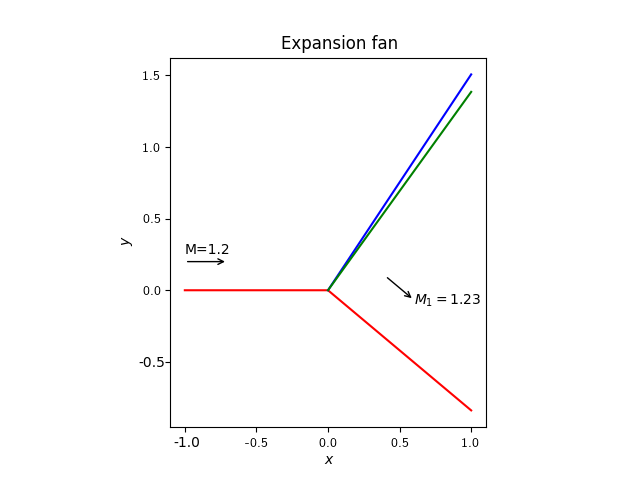
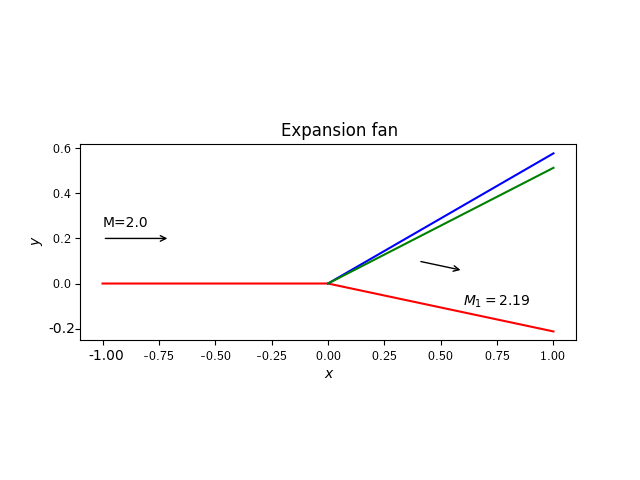
Correcting expansion

diff --git a/plot_expansion.py b/plot_expansion.py
@@ -1,8 +1,11 @@
 from numpy import arctan, tan, array, linspace, sqrt, zeros, degrees
 from matplotlib.pyplot import plot, xlabel, ylabel, title, show, rc, gca, savefig, subplots, close, arrow, annotate, table, grid
 
-def prandtl_meyer(M, gamma):
+def prandtl_meyer_deg(M, gamma):
     return degrees(sqrt((gamma+1)/(gamma-1))*arctan(sqrt((gamma-1)/(gamma+1))*(M**2-1)) - arctan(M**2-1))
+
+def prandtl_meyer(M, gamma):
+    return sqrt((gamma+1)/(gamma-1))*arctan(sqrt((gamma-1)/(gamma+1))*(M**2-1)) - arctan(M**2-1)
 
 # Plotting functions
 def wall_points(theta):
@@ -68,7 +71,7 @@ def plot_prandtl_meyer(ax):
     m_vect = linspace(1., 10., 20)
     nu_vect = zeros(m_vect.size)
     for j, m in enumerate(m_vect):
-        nu_vect[j] = prandtl_meyer(m, 1.4)
+        nu_vect[j] = prandtl_meyer_deg(m, 1.4)
     ax.plot(m_vect, nu_vect)
     rc('text', usetex=True)
     xlabel('$M$')

diff --git a/expansion.py b/expansion.py
@@ -7,8 +7,8 @@ from scipy.optimize import newton
 
 # Inputs
 gamma = 1.4
-M = 1.2 # Mach number
-theta_deg = 40.
+M = 2. # Mach number
+theta_deg = 12.
 
 # Angles in radians
 theta = radians(theta_deg)
